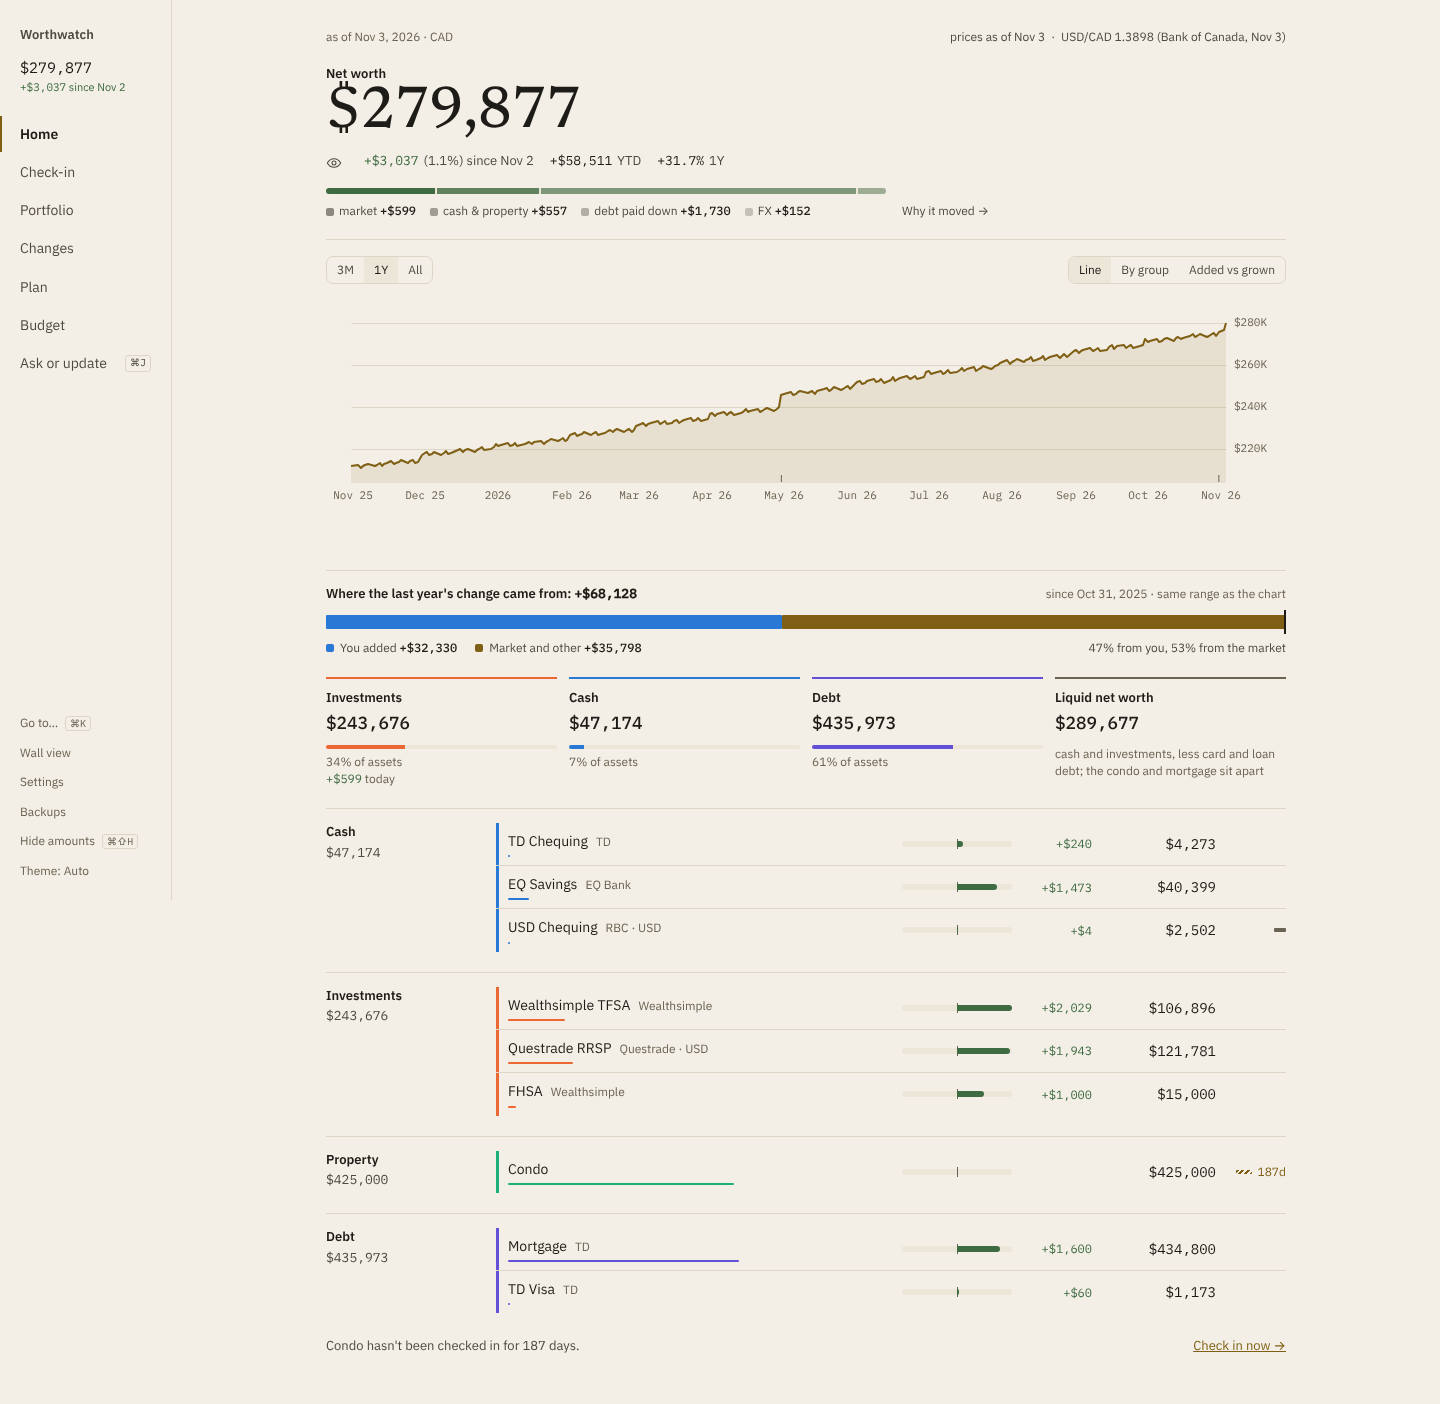
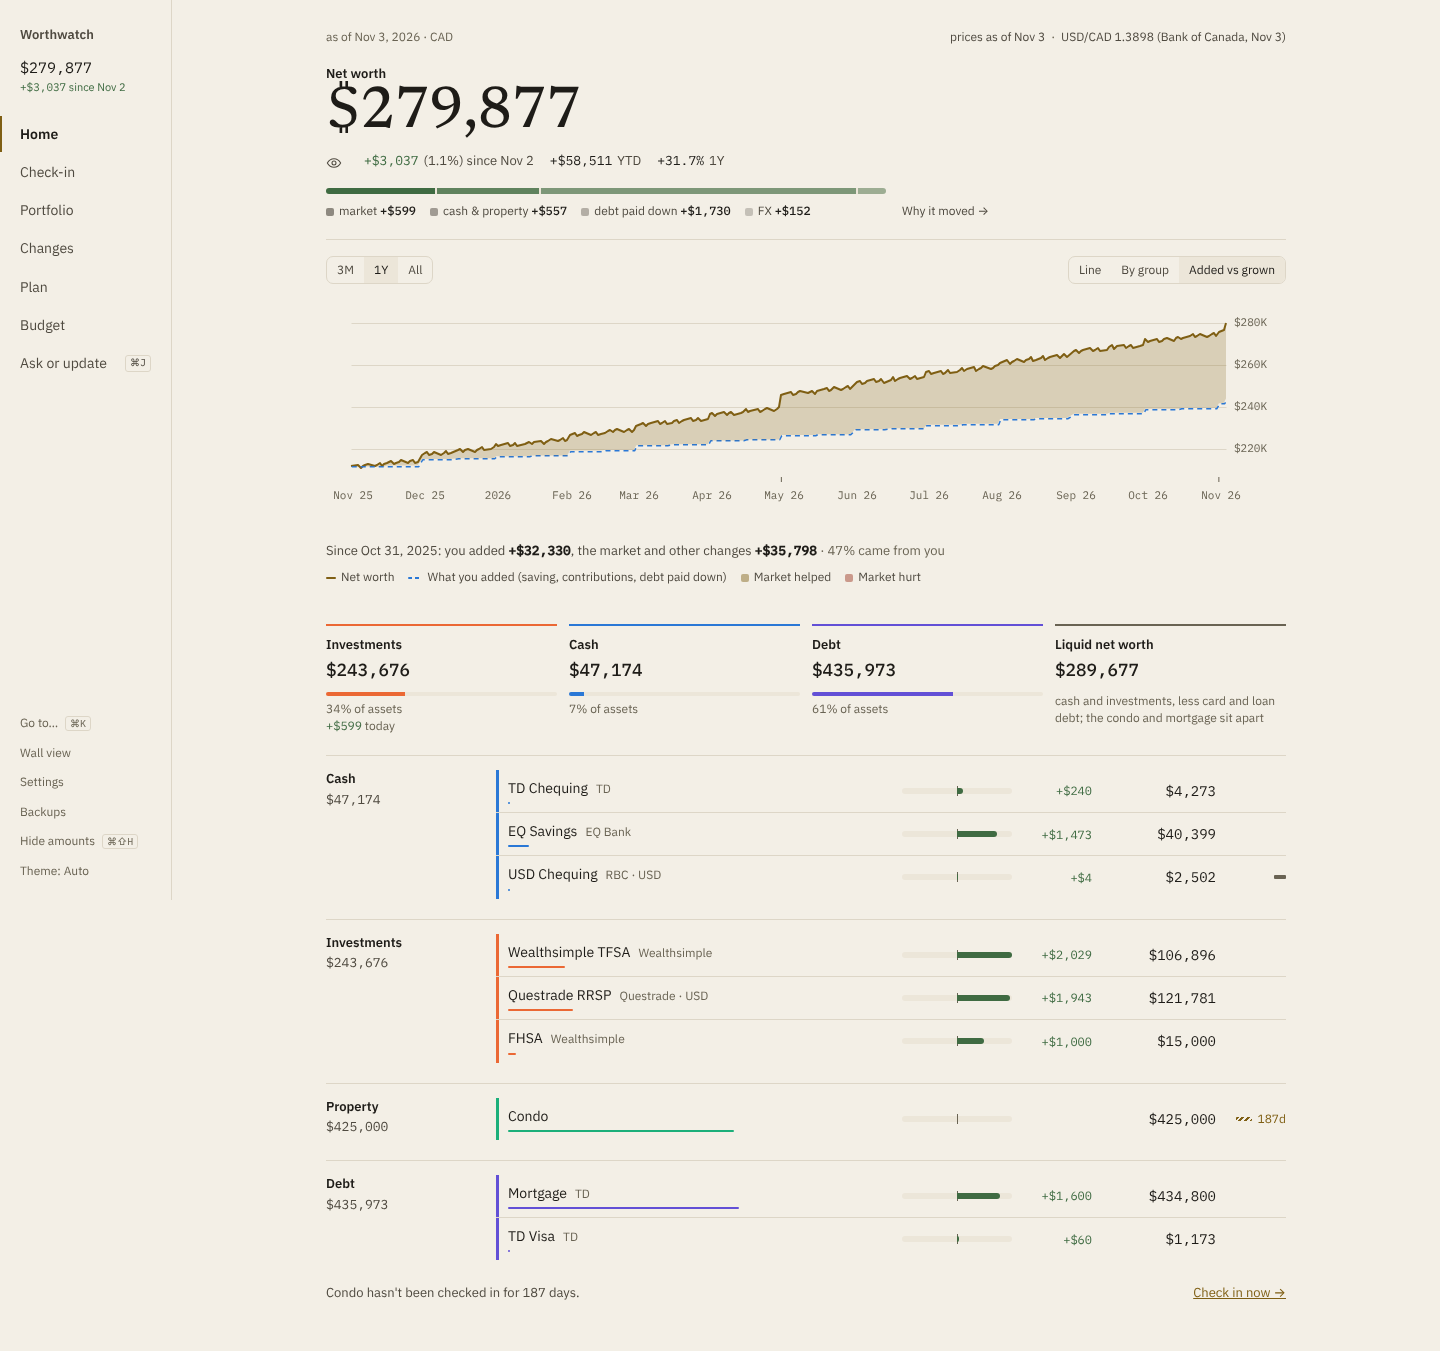
Home chart opens on added vs grown; drop the summary bar
The chart's Added vs grown view shows net worth and where the change
came from, so it is now the default. Its totals sit under the chart,
which replaces the separate bar that repeated them.

diff --git a/ui/src/lib/charts/NetWorthChart.svelte b/ui/src/lib/charts/NetWorthChart.svelte
@@ -3,6 +3,7 @@
   import uPlot from "uplot";
   import { onMount } from "svelte";
   import { GROUPS, GROUP_LABEL, type Group, type GrowthPoint, type Point } from "../api";
+  import { addedLine as addedLineOf, windowTotals } from "../growth";
   import { formatCompact, formatDate, formatMoney, formatSigned } from "../money";
 
   type Range = "3m" | "1y" | "all";
@@ -18,7 +19,10 @@
     range = $bindable("1y"),
   }: { series: Point[]; events?: { date: string; note: string }[]; currency?: string; blur?: boolean; groups?: boolean; growth?: GrowthPoint[] | null; range?: Range } = $props();
 
-  let mode = $state<Mode>("line");
+  // Added vs grown is the default view once the growth series has loaded: it is the
+  // net worth line plus where the change came from. Line and By group are one click away.
+  let chosen = $state<Mode | null>(null);
+  const mode = $derived<Mode>(chosen ?? (growth?.length ? "added" : "line"));
   let host: HTMLDivElement;
   let plot: uPlot | null = null;
   let hover = $state<{ i: number; left: number } | null>(null);
@@ -43,16 +47,8 @@
 
   const g = (p: Point, k: Group) => Number(p.by_group[k] ?? 0);
 
-  // Added vs grown: a dashed line of where you would be on what you put in alone,
-  // from the window's first point. The gap to net worth is what the market did.
-  const addedBy = $derived(new Map((growth ?? []).map((p) => [p.date, Number(p.added)])));
-  const addedLine = $derived.by(() => {
-    if (!visible.length) return [];
-    const a0 = addedBy.get(visible[0].date) ?? 0;
-    const n0 = Number(visible[0].net_worth);
-    let last = a0;
-    return visible.map((p) => { last = addedBy.get(p.date) ?? last; return n0 + last - a0; });
-  });
+  // Added vs grown: a dashed line of where you would be on what you put in alone.
+  const addedLine = $derived(addedLineOf(visible, growth ?? []));
 
   function data(): uPlot.AlignedData {
     const xs = visible.map((p) => toSec(p.date));
@@ -206,6 +202,9 @@
     if (host) build();
   });
 
+  // The window's totals, shown under the chart: what you put in, and what the market and FX did.
+  const totals = $derived(mode === "added" ? windowTotals(visible, addedLine) : null);
+
   const hovered = $derived(hover ? visible[hover.i] : null);
   const hoverEvents = $derived(hovered ? events.filter((e) => e.date === hovered.date) : []);
   const tipLeft = $derived.by(() => {
@@ -223,9 +222,9 @@
       <button type="button" class:on={range === "all"} onclick={() => (range = "all")}>All</button>
     </div>
     {#if groups}<div class="seg" role="group" aria-label="View">
-      <button type="button" class:on={mode === "line"} onclick={() => (mode = "line")}>Line</button>
-      <button type="button" class:on={mode === "groups"} onclick={() => (mode = "groups")}>By group</button>
-      {#if growth?.length}<button type="button" class:on={mode === "added"} onclick={() => (mode = "added")} title="Net worth against what you put in; the gap is the market">Added vs grown</button>{/if}
+      <button type="button" class:on={mode === "line"} onclick={() => (chosen = "line")}>Line</button>
+      <button type="button" class:on={mode === "groups"} onclick={() => (chosen = "groups")}>By group</button>
+      {#if growth?.length}<button type="button" class:on={mode === "added"} onclick={() => (chosen = "added")} title="Net worth against what you put in; the gap is the market">Added vs grown</button>{/if}
     </div>{/if}
   </div>
 
@@ -252,6 +251,12 @@
   </div>
 
   {#if mode === "added"}
+    {#if totals}
+      <p class="totals">
+        Since {formatDate(totals.from, "long")}: you added <b class="money num">{formatSigned(totals.added, currency)}</b>,
+        the market and other changes <b class="money num" class:neg={totals.grown < 0}>{formatSigned(totals.grown, currency)}</b>{#if totals.fromYou != null}<span class="faint">&nbsp;· {totals.fromYou}% came from you</span>{/if}
+      </p>
+    {/if}
     <div class="legend">
       <span><i class="line" style="background:var(--accent)"></i>Net worth</span>
       <span><i class="line dash"></i>What you added (saving, contributions, debt paid down)</span>
@@ -288,5 +293,8 @@
   .legend i { display: inline-block; width: 8px; height: 8px; border-radius: 2px; margin-right: 5px; vertical-align: -1px; }
   .legend i.line { height: 2px; width: 10px; background: var(--text); vertical-align: 2px; }
   .legend i.dash { background: repeating-linear-gradient(90deg, var(--g-cash) 0 4px, transparent 4px 7px); width: 14px; }
+  .totals { margin: 10px 0 0; font-size: 13px; color: var(--text-2); }
+  .totals b { color: var(--text); font-weight: 600; }
+  .totals b.neg { color: var(--negative); }
   .num { font-variant-numeric: tabular-nums; }
 </style>

diff --git a/ui/src/lib/growth.ts b/ui/src/lib/growth.ts
@@ -1,24 +1,28 @@
-// Added vs grown over a window of the growth series: pure, so it is unit-tested.
+// Added vs grown: pure, so it is unit-tested. The Home chart and the account page use these.
 import type { GrowthPoint } from "./api";
 
-export interface Split { from: string; to: string; start: number; end: number; added: number; grown: number }
-
-/** The split between the first and last point on or after `cut` (ISO date); null with fewer than two. */
-export function splitSince(points: GrowthPoint[], cut: string | null): Split | null {
-  const i = cut == null ? 0 : Math.max(0, points.findIndex((p) => p.date >= cut) - 1);
-  const a = points[i], b = points[points.length - 1];
-  if (!a || !b || a === b) return null;
-  const start = Number(a.net_worth), end = Number(b.net_worth);
-  const added = Number(b.added) - Number(a.added);
-  return { from: a.date, to: b.date, start, end, added, grown: end - start - added };
+/** Where net worth would be on what you put in alone, from the window's first point.
+ *  The gap between this line and net worth is what the market and FX did. */
+export function addedLine(visible: { date: string; net_worth: string }[], growth: GrowthPoint[]): number[] {
+  if (!visible.length) return [];
+  const by = new Map(growth.map((p) => [p.date, Number(p.added)]));
+  const a0 = by.get(visible[0].date) ?? 0;
+  const n0 = Number(visible[0].net_worth);
+  let last = a0;
+  return visible.map((p) => { last = by.get(p.date) ?? last; return n0 + last - a0; });
 }
 
-/** First date of a chart range ending at `last` (ISO): 3M = 92 days, 1Y = 366, All = null. */
-export function rangeCut(range: "3m" | "1y" | "all", last: string): string | null {
-  if (range === "all") return null;
-  const d = new Date(last + "T00:00:00Z");
-  d.setUTCDate(d.getUTCDate() - (range === "3m" ? 92 : 366));
-  return d.toISOString().slice(0, 10);
+export interface WindowTotals { from: string; added: number; grown: number; fromYou: number | null }
+
+/** The window's totals: what you added, what the market did, and your share when both helped. */
+export function windowTotals(visible: { date: string; net_worth: string }[], line: number[]): WindowTotals | null {
+  if (visible.length < 2 || line.length !== visible.length) return null;
+  const start = Number(visible[0].net_worth);
+  const end = Number(visible[visible.length - 1].net_worth);
+  const atEnd = line[line.length - 1];
+  const added = atEnd - start, grown = end - atEnd;
+  const fromYou = added > 0 && grown > 0 ? Math.round((added / (added + grown)) * 100) : null;
+  return { from: visible[0].date, added, grown, fromYou };
 }
 
 export interface MonthBar { month: string; added: number; grown: number }

diff --git a/ui/src/screens/Home.svelte b/ui/src/screens/Home.svelte
@@ -1,8 +1,6 @@
 <script lang="ts">
   import PrivacyToggle from "../lib/components/PrivacyToggle.svelte";
   import { GROUPS, GROUP_LABEL, getChanges, getGrowth, type AccountView, type Changes, type GrowthPoint, type LedgerView } from "../lib/api";
-  import { rangeCut, splitSince } from "../lib/growth";
-  import GrowthBar from "../lib/components/GrowthBar.svelte";
   import { formatDate, formatMoney, formatSigned } from "../lib/money";
   import { parts } from "../lib/changes";
   import SplitStrip from "../lib/components/SplitStrip.svelte";
@@ -56,17 +54,15 @@
   });
   const whyParts = $derived(why ? parts(why) : []);
 
-  // Added vs grown, for the chart's third mode and the bar under it (same range as the chart).
+  // Added vs grown: the chart's default view once this loads.
   let growth = $state<GrowthPoint[] | null>(null);
   let growthKey = -1;
-  let range = $state<"3m" | "1y" | "all">("1y");
   $effect(() => {
     const v = view.version;
     if (v === growthKey) return;
     growthKey = v;
     getGrowth().then((g) => { growth = g; }, () => { growth = null; });
   });
-  const split = $derived(growth && growth.length > 1 ? splitSince(growth, rangeCut(range, growth[growth.length - 1].date)) : null);
 </script>
 
 <div class="home">
@@ -108,10 +104,8 @@
     </section>
 
     <section class="card">
-      <NetWorthChart series={view.series} events={view.events} currency={cur} blur={prefs.blur} {growth} bind:range />
+      <NetWorthChart series={view.series} events={view.events} currency={cur} blur={prefs.blur} {growth} />
     </section>
-
-    {#if split}<GrowthBar {split} currency={cur} label={range === "all" ? "Where it came from:" : range === "3m" ? "Where the last 3 months' change came from:" : "Where the last year's change came from:"} />{/if}
 
     <section class="tiles">
       <a class="card tile" style="--gc:var(--g-investments)" href="#/portfolio"><div class="label">Investments</div><div class="v"><Money value={groupVal("investments")} currency={cur} size="l" /></div>{@render shareOf(groupVal("investments"))}{#if view.portfolio.day_change != null}<div class="d"><Money value={view.portfolio.day_change} currency={cur} signed tone="delta" /> <span class="faint">today</span></div>{/if}</a>

diff --git a/ui/src/lib/growth.test.ts b/ui/src/lib/growth.test.ts
@@ -1,5 +1,5 @@
 import { describe, expect, it } from "vitest";
-import { lastMonths, rangeCut, splitSince } from "./growth";
+import { addedLine, lastMonths, windowTotals } from "./growth";
 
 const pts = [
   { date: "2026-01-01", net_worth: "1000", added: "0" },
@@ -8,22 +8,21 @@ const pts = [
 ];
 
 describe("added vs grown", () => {
-  it("splits the move into what you added and the rest", () => {
-    expect(splitSince(pts, null)).toEqual({ from: "2026-01-01", to: "2026-03-01", start: 1000, end: 1100, added: 350, grown: -250 });
+  it("draws what you added from the window's first point", () => {
+    expect(addedLine(pts.slice(1), pts)).toEqual([1300, 1450]);
   });
-  it("starts from the point before the cut, like the chart", () => {
-    const s = splitSince(pts, "2026-02-15");
-    expect(s?.from).toBe("2026-02-01");
-    expect(s?.added).toBe(150);
-    expect(s?.grown).toBe(-350);
+  it("carries the last known total over dates the growth series lacks", () => {
+    expect(addedLine([...pts, { date: "2026-03-15", net_worth: "1200", added: "0" }], pts)).toEqual([1000, 1200, 1350, 1350]);
+  });
+  it("splits the window into what you added and the rest", () => {
+    expect(windowTotals(pts, addedLine(pts, pts))).toEqual({ from: "2026-01-01", added: 350, grown: -250, fromYou: null });
+  });
+  it("gives your share only when both parts helped", () => {
+    const up = [pts[0], pts[1]];
+    expect(windowTotals(up, addedLine(up, pts))?.fromYou).toBe(67);
   });
   it("needs two points", () => {
-    expect(splitSince(pts.slice(0, 1), null)).toBeNull();
-  });
-  it("cuts 3M and 1Y back from the last date", () => {
-    expect(rangeCut("3m", "2026-11-03")).toBe("2026-08-03");
-    expect(rangeCut("1y", "2026-11-03")).toBe("2025-11-02");
-    expect(rangeCut("all", "2026-11-03")).toBeNull();
+    expect(windowTotals(pts.slice(0, 1), [1000])).toBeNull();
   });
 });
 
